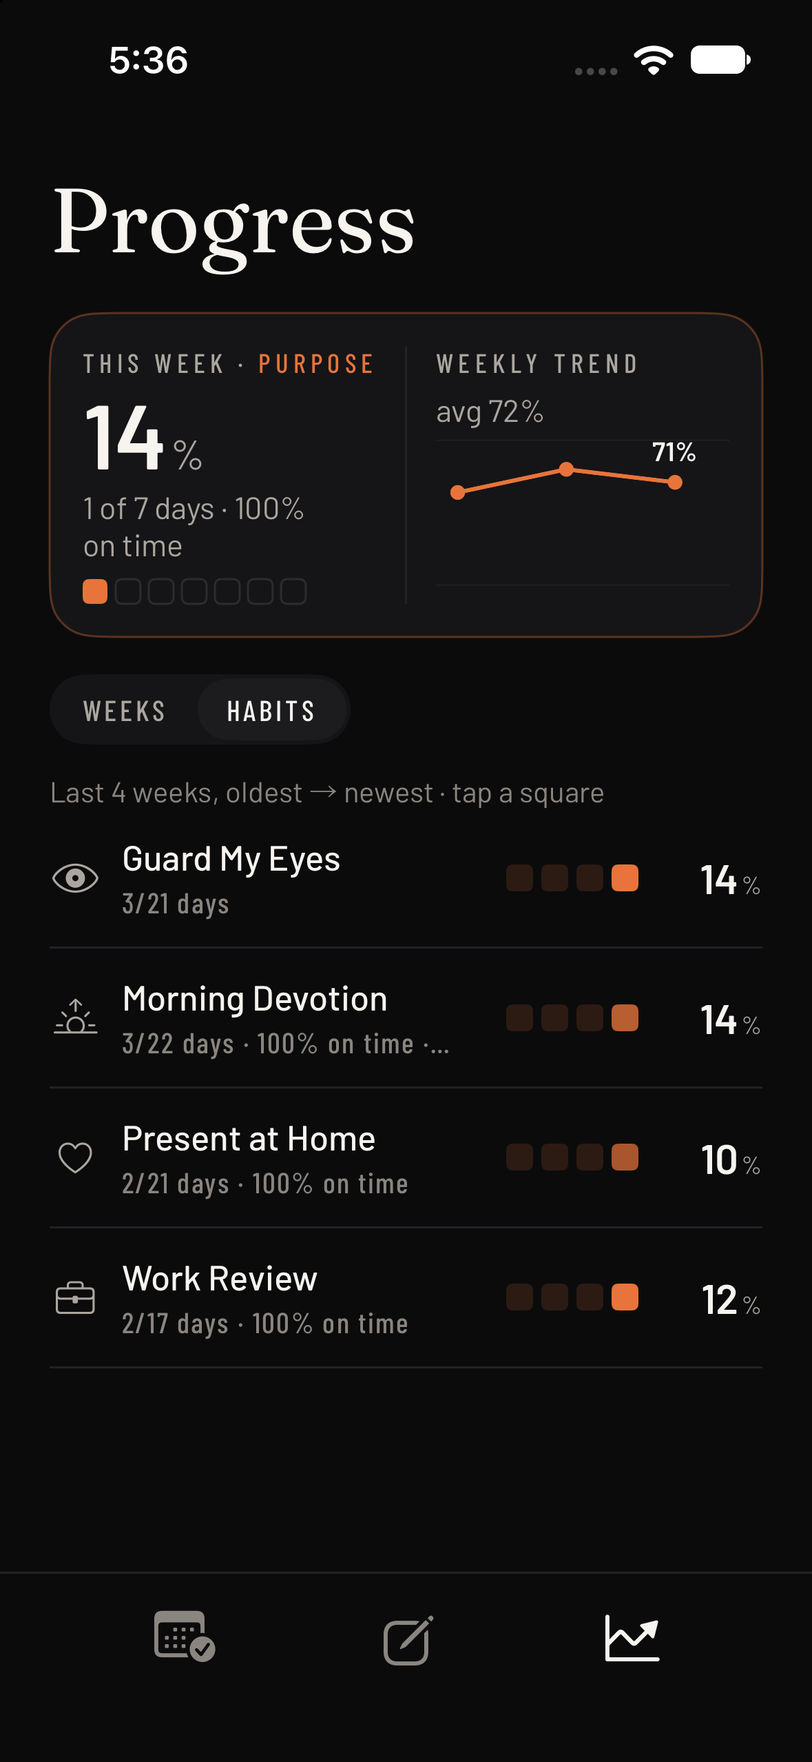
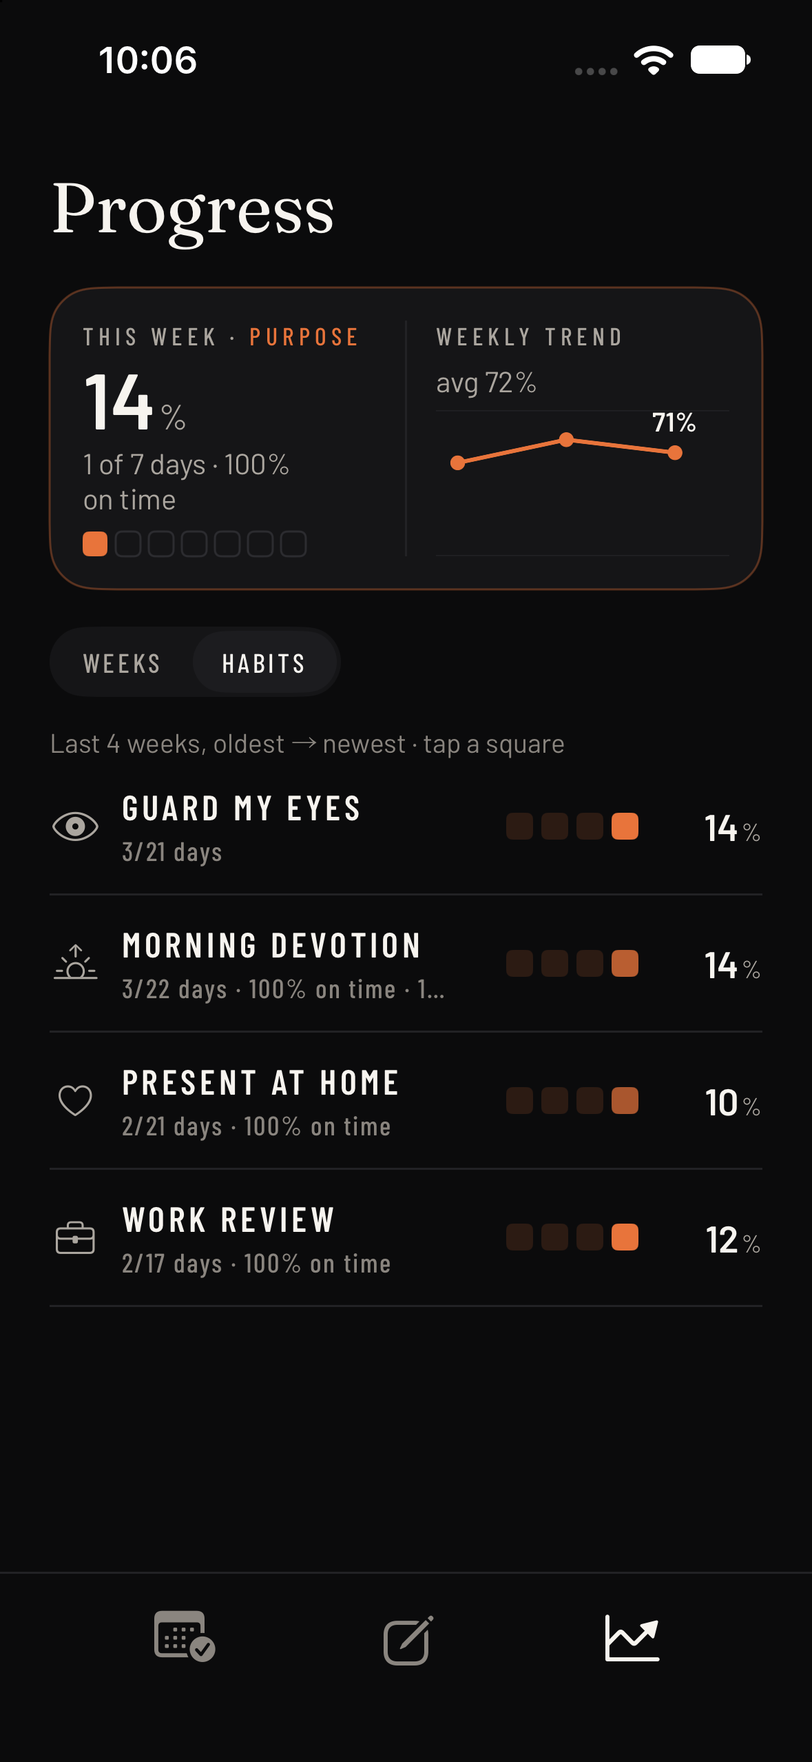
iOS: condensed caps for habit names, rows and buttons; remove the flat style trial switch (original shapes stay)

diff --git a/ios/WeeklyDirection/SettingsView.swift b/ios/WeeklyDirection/SettingsView.swift
@@ -4,7 +4,6 @@ import SwiftUI
 /// notifications on this phone, export.
 struct SettingsView: View {
     @EnvironmentObject var store: Store
-    @AppStorage(Theme.styleKey) private var style = 0
     @EnvironmentObject var router: Router
     @EnvironmentObject var notifier: Notifier
     @Environment(\.dismiss) private var dismiss
@@ -23,11 +22,11 @@ struct SettingsView: View {
             HStack {
                 Button { commit(); dismiss() } label: {
                     HStack(spacing: 10) { Image(systemName: "chevron.left").font(.system(size: 15, weight: .medium)); Text("This week") }
-                        .font(Theme.ui(16)).foregroundStyle(Theme.mu)
+                        .caps(16).foregroundStyle(Theme.mu)
                 }
                 .buttonStyle(.plain)
                 Spacer()
-                if focus != nil { Button("Done") { focus = nil }.font(Theme.ui(16, .semibold)).foregroundStyle(Theme.ac) }
+                if focus != nil { Button("Done") { focus = nil }.caps(16).foregroundStyle(Theme.ac) }
             }
             .padding(.horizontal, 24).frame(height: 52)
             ScrollView {
@@ -61,7 +60,7 @@ struct SettingsView: View {
                 Text(store.isMock ? "Preview data" : "Synced to your account").font(Theme.ui(14)).foregroundStyle(Theme.mu)
             } }
             divider
-            Button { confirmSignOut = true } label: { row { Text("Sign out on this device").font(Theme.ui(16)).foregroundStyle(Theme.tx) } }.buttonStyle(.plain)
+            Button { confirmSignOut = true } label: { row { Text("Sign out on this device").caps(16).foregroundStyle(Theme.tx) } }.buttonStyle(.plain)
         }
         if let aw = store.activeWeek {
             label("This week")
@@ -79,7 +78,7 @@ struct SettingsView: View {
                 ForEach([("dark", "Dark"), ("light", "Light"), ("auto", "Auto")], id: \.0) { t in
                     let on = store.settings.theme == t.0
                     Button(t.1) { Haptic.tick(); store.setSettings(["theme": t.0]) }
-                        .font(Theme.ui(16)).foregroundStyle(on ? Color(hex: 0x0B0B0C) : Theme.tx)
+                        .caps(16).foregroundStyle(on ? Color(hex: 0x0B0B0C) : Theme.tx)
                         .frame(maxWidth: .infinity).frame(height: 40)
                         .background(on ? Color(hex: 0xF7F4EF) : Color.clear, in: RoundedRectangle(cornerRadius: Theme.r(11), style: .continuous))
                         .overlay(RoundedRectangle(cornerRadius: Theme.r(11), style: .continuous).stroke(on ? Color.clear : Theme.line, lineWidth: 1))
@@ -87,25 +86,6 @@ struct SettingsView: View {
             }
             .buttonStyle(.plain).padding(16)
         }
-        group {
-            // a look being tried on the phone: saved on this phone only, never in the account
-            VStack(alignment: .leading, spacing: 10) {
-                Text("Style (trying it out)").font(Theme.ui(14)).foregroundStyle(Theme.mu)
-                HStack(spacing: 6) {
-                    ForEach([(0, "Current"), (1, "Flat"), (2, "Flat + caps")], id: \.0) { t in
-                        let on = style == t.0
-                        Button(t.1) { Haptic.tick(); style = t.0 }
-                            .font(Theme.ui(16)).foregroundStyle(on ? Color(hex: 0x0B0B0C) : Theme.tx)
-                            .frame(maxWidth: .infinity).frame(height: 40)
-                            .background(on ? Color(hex: 0xF7F4EF) : Color.clear, in: RoundedRectangle(cornerRadius: Theme.r(11), style: .continuous))
-                            .overlay(RoundedRectangle(cornerRadius: Theme.r(11), style: .continuous).stroke(on ? Color.clear : Theme.line, lineWidth: 1))
-                    }
-                }
-                .buttonStyle(.plain)
-            }
-            .padding(16)
-        }
-        .padding(.top, 8)
         group {
             toggle("Sounds", "Soft tones when you start a timer, finish a habit or keep the day. Silent when the phone is on silent.",
                    Binding(get: { store.settings.sounds }, set: { store.setSettings(["sounds": $0]) }))
@@ -145,7 +125,7 @@ struct SettingsView: View {
                 titled("Export my data", "A copy of every week, habit, reflection, prayer and setting, as one file you can keep.")
                 Spacer()
                 Button("Export") { exportURL = export() }
-                    .font(Theme.ui(16, .semibold)).foregroundStyle(Theme.tx).padding(.horizontal, 16).frame(height: 40)
+                    .caps(16).foregroundStyle(Theme.tx).padding(.horizontal, 16).frame(height: 40)
                     .overlay(RoundedRectangle(cornerRadius: Theme.r(12), style: .continuous).stroke(Theme.line, lineWidth: 1)).buttonStyle(.plain)
             }
             .padding(16)
@@ -158,7 +138,7 @@ struct SettingsView: View {
     private func row<V: View>(@ViewBuilder _ c: () -> V) -> some View { c().fullWidth().padding(16).contentShape(Rectangle()) }
     private func titled(_ t: String, _ sub: String) -> some View {
         VStack(alignment: .leading, spacing: 3) {
-            Text(t).font(Theme.ui(16)).foregroundStyle(Theme.tx)
+            Text(t).caps(16).foregroundStyle(Theme.tx)
             Text(sub).font(Theme.ui(14)).foregroundStyle(Theme.mu).multilineTextAlignment(.leading)
         }
     }

diff --git a/ios/WeeklyDirection/PlanView.swift b/ios/WeeklyDirection/PlanView.swift
@@ -34,7 +34,7 @@ struct PlanView: View {
             HStack {
                 Button { leave() } label: {
                     HStack(spacing: 10) { Image(systemName: "chevron.left").font(.system(size: 15, weight: .medium)); Text("Later") }
-                        .font(Theme.ui(16)).foregroundStyle(Theme.mu)
+                        .caps(16).foregroundStyle(Theme.mu)
                 }
                 .buttonStyle(.plain)
                 Spacer()
@@ -152,7 +152,7 @@ struct PlanView: View {
                 if let c = Commitment(raw) {
                     HStack(spacing: 12) {
                         Ico(name: c.icon, size: 17).foregroundStyle(Theme.mu)
-                        Text(c.name).font(Theme.ui(16)).foregroundStyle(Theme.tx).lineLimit(1).layoutPriority(1)
+                        Text(c.name).caps(16).foregroundStyle(Theme.tx).lineLimit(1).layoutPriority(1)
                         Spacer(minLength: 6)
                         Text(c.timeLabel()).font(Theme.label(13)).tracking(0.8).foregroundStyle(Theme.mu2).lineLimit(1)
                         Button { tray.remove(at: i); saveDraft() } label: {
@@ -372,7 +372,7 @@ struct ChipSheet: View {
                 timeRow("Start by", $by).padding(.top, 20)
                 if days != "wd" { timeRow("Weekends", $byWe).padding(.top, 10) }
                 HStack {
-                    Text("Minutes (timed habit)").font(Theme.ui(16)).foregroundStyle(Theme.tx)
+                    Text("Minutes (timed habit)").caps(16).foregroundStyle(Theme.tx)
                     Spacer()
                     TextField("0", text: $minutes).keyboardType(.numberPad).multilineTextAlignment(.trailing).font(Theme.ui(16)).foregroundStyle(Theme.tx).frame(width: 70)
                 }
@@ -419,7 +419,7 @@ struct ChipSheet: View {
 
     private func timeRow(_ label: String, _ t: Binding<Date?>) -> some View {
         HStack {
-            Text(label).font(Theme.ui(16)).foregroundStyle(Theme.tx)
+            Text(label).caps(16).foregroundStyle(Theme.tx)
             Spacer()
             if let v = t.wrappedValue {
                 DatePicker("", selection: Binding(get: { v }, set: { t.wrappedValue = $0 }), displayedComponents: .hourAndMinute).labelsHidden().tint(Theme.ac)
@@ -440,7 +440,7 @@ struct ChipSheet: View {
                 Button("Remove from library") { confirmRemove = true }.font(Theme.ui(15)).foregroundStyle(Theme.danger)
             case .new:
                 primary("Save to library and add") { save("lib") }
-                Button("This week only") { save("week") }.font(Theme.ui(16)).foregroundStyle(Theme.tx).frame(maxWidth: .infinity).frame(height: 48)
+                Button("This week only") { save("week") }.caps(16).foregroundStyle(Theme.tx).frame(maxWidth: .infinity).frame(height: 48)
                     .overlay(RoundedRectangle(cornerRadius: Theme.r(14), style: .continuous).stroke(Theme.line, lineWidth: 1))
             }
         }
@@ -448,7 +448,7 @@ struct ChipSheet: View {
     }
     private func primary(_ t: String, _ action: @escaping () -> Void) -> some View {
         Button(action: action) {
-            Text(t).font(Theme.ui(16, .semibold)).foregroundStyle(Color(hex: 0x0B0B0C)).frame(maxWidth: .infinity).frame(height: 50)
+            Text(t).caps(16).foregroundStyle(Color(hex: 0x0B0B0C)).frame(maxWidth: .infinity).frame(height: 50)
                 .background(Color(hex: 0xF7F4EF), in: RoundedRectangle(cornerRadius: Theme.r(14), style: .continuous))
         }
     }
@@ -500,7 +500,7 @@ struct QuestionPicker: View {
                 HStack {
                     Text("Pick two questions · \(picked.count)/2").font(Theme.serif(20)).foregroundStyle(Theme.tx)
                     Spacer()
-                    Button("Done") { dismiss() }.font(Theme.ui(16, .semibold)).foregroundStyle(Theme.ac)
+                    Button("Done") { dismiss() }.caps(16).foregroundStyle(Theme.ac)
                 }
                 Eyebrow(text: "Anchor · every week", color: Theme.mu, size: 12).padding(.top, 18)
                 Text(a).font(Theme.serif(17)).foregroundStyle(Theme.tx).padding(.top, 6)

diff --git a/ios/WeeklyDirection/ReflectView.swift b/ios/WeeklyDirection/ReflectView.swift
@@ -186,7 +186,7 @@ struct WeekPage: View {
                         Button(selecting ? "Cancel" : "Select") { Haptic.tick(); selecting.toggle(); picked = [] }
                     }
                 }
-                .font(Theme.ui(16)).foregroundStyle(Theme.ac)
+                .caps(16).foregroundStyle(Theme.ac)
                 .padding(.horizontal, 22).frame(height: 52)
                 ScrollView {
                     if let w = store.week(weekId) {
@@ -199,7 +199,7 @@ struct WeekPage: View {
             if selecting {
                 Button { confirmDelete = true } label: {
                     Text(picked.isEmpty ? "Delete" : "Delete \(picked.count) \(picked.count == 1 ? "entry" : "entries")")
-                        .font(Theme.ui(16, .semibold)).foregroundStyle(.white)
+                        .caps(16).foregroundStyle(.white)
                         .frame(maxWidth: .infinity).frame(height: 54)
                         .background(Theme.danger.opacity(picked.isEmpty ? 0.4 : 1), in: RoundedRectangle(cornerRadius: Theme.r(16), style: .continuous))
                 }
@@ -348,14 +348,14 @@ struct EntryMenu: ViewModifier {
                                 .fullWidth().padding(.horizontal, 18).padding(.vertical, 16)
                                 Rectangle().fill(Theme.rule).frame(height: 1)
                                 Button("Edit") { router.entryMenu = nil; onEdit(i) }
-                                    .font(Theme.ui(17)).foregroundStyle(Theme.ac).frame(maxWidth: .infinity).frame(height: 58)
+                                    .caps(16).foregroundStyle(Theme.ac).frame(maxWidth: .infinity).frame(height: 58)
                                 Rectangle().fill(Theme.rule).frame(height: 1)
                                 Button("Delete") { target = i; confirm = true }
-                                    .font(Theme.ui(17)).foregroundStyle(Theme.danger).frame(maxWidth: .infinity).frame(height: 58)
+                                    .caps(16).foregroundStyle(Theme.danger).frame(maxWidth: .infinity).frame(height: 58)
                             }
                             .background(Theme.card2, in: RoundedRectangle(cornerRadius: Theme.r(18), style: .continuous))
                             Button("Cancel") { router.entryMenu = nil }
-                                .font(Theme.ui(17, .semibold)).foregroundStyle(Theme.tx).frame(maxWidth: .infinity).frame(height: 58)
+                                .caps(16).foregroundStyle(Theme.tx).frame(maxWidth: .infinity).frame(height: 58)
                                 .background(Theme.card2, in: RoundedRectangle(cornerRadius: Theme.r(18), style: .continuous))
                         }
                         .buttonStyle(.plain)
@@ -395,9 +395,9 @@ struct EntryEditor: View {
                 Button("Cancel") {
                     if entry == nil, !text.trimmingCharacters(in: .whitespacesAndNewlines).isEmpty { confirmDiscard = true } else { dismiss() }
                 }
-                .font(Theme.ui(16)).foregroundStyle(Theme.mu)
+                .caps(16).foregroundStyle(Theme.mu)
                 Spacer()
-                Button(entry == nil ? "Add" : "Save") { save(); dismiss() }.font(Theme.ui(16, .semibold)).foregroundStyle(Theme.ac)
+                Button(entry == nil ? "Add" : "Save") { save(); dismiss() }.caps(16).foregroundStyle(Theme.ac)
             }
             .frame(height: 52)
             Eyebrow(text: entry == nil ? "New entry · \(Fmt.stamp(opened))" : "Edit entry" + (blk?.d.map { " · \($0), \(blk?.t ?? "")" } ?? ""),

diff --git a/ios/WeeklyDirection/Theme.swift b/ios/WeeklyDirection/Theme.swift
@@ -7,11 +7,9 @@ enum Theme {
     /// "Not now" palette preview (-MockPalette focus, sample-data mode only): a design finding, not an approved theme.
     /// bg, tx and ac are sampled from the /focus page screenshot; the other tones are derived from them.
     private static let focus = Mock.enabled && UserDefaults.standard.string(forKey: "MockPalette") == "focus"
-    /// Flat style trial (Settings > Appearance > Style, or -MockStyle 1 / 2): a design finding Eddie is trying on the
-    /// phone, not yet the approved look. 0 = current; 1 = square, outlined shapes; 2 = the same plus heavy condensed
-    /// caps for titles and habit names. Kept on this phone only (UserDefaults), never in Firestore.
-    static let styleKey = "MockStyle"
-    static var style: Int { UserDefaults.standard.integer(forKey: styleKey) }
+    /// Flat style preview (-MockStyle 1 or 2, sample-data mode only): a design finding Eddie tried and turned down
+    /// (Nov 9 2026: "keep original"). 1 = square, outlined shapes; 2 = the same plus condensed caps titles.
+    static let style: Int = Mock.enabled ? UserDefaults.standard.integer(forKey: "MockStyle") : 0
     static func r(_ x: CGFloat) -> CGFloat { style > 0 ? 0 : x }
     static var pill: AnyShape { style > 0 ? AnyShape(Rectangle()) : AnyShape(Capsule()) }
     static var dot: AnyShape { style > 0 ? AnyShape(Rectangle()) : AnyShape(Circle()) }
@@ -144,11 +142,13 @@ extension View {
         if Theme.style == 2 { font(.custom("BarlowCondensed-SemiBold", size: size * 1.12)).textCase(.uppercase).tracking(size * 0.03) }
         else { font(Theme.serif(size)) }
     }
-    /// habit name: the web's Barlow Regular 16.5, or condensed caps in flat style 2 (preview only)
-    @ViewBuilder func rowTitle() -> some View {
-        if Theme.style == 2 { font(.custom("BarlowCondensed-SemiBold", size: 17)).textCase(.uppercase).tracking(2.2) }
-        else { font(Theme.ui(16.5)) }
+    /// Names, rows and buttons: heavy condensed caps (Eddie, Nov 9 2026). Page titles and journal text keep the serif;
+    /// sentences and descriptions keep Barlow.
+    func caps(_ size: CGFloat = 16) -> some View {
+        font(.custom("BarlowCondensed-SemiBold", size: size)).textCase(.uppercase).tracking(size * 0.11)
     }
+    /// habit name
+    func rowTitle() -> some View { caps(17) }
     /// full-width, leading-aligned content: nothing in the app is centered in a narrow column
     func fullWidth() -> some View { frame(maxWidth: .infinity, alignment: .leading) }
 }

diff --git a/ios/WeeklyDirection/HabitSheet.swift b/ios/WeeklyDirection/HabitSheet.swift
@@ -26,7 +26,7 @@ struct HabitSheet: View {
                             Text(metaLine(c)).font(Theme.label(13)).tracking(1.4).foregroundStyle(Theme.mu2)
                         }
                         Spacer()
-                        Button("Done") { router.sheet = nil }.font(Theme.ui(16, .semibold)).foregroundStyle(Theme.ac)
+                        Button("Done") { router.sheet = nil }.caps(16).foregroundStyle(Theme.ac)
                     }
                     Eyebrow(text: "About", color: Theme.mu, size: 12).padding(.top, 22)
                     TextEditor(text: $about)
@@ -94,14 +94,14 @@ struct HabitSheet: View {
                         router.sheet = nil
                         DispatchQueue.main.asyncAfter(deadline: .now() + 0.35) { router.cover = .focus(week: w.id, habit: c.id, day: k) }
                     } label: {
-                        Text("Open timer").font(Theme.ui(16, .medium)).foregroundStyle(Theme.tx)
+                        Text("Open timer").caps(16).foregroundStyle(Theme.tx)
                             .frame(maxWidth: .infinity).frame(height: 48)
                             .overlay(RoundedRectangle(cornerRadius: Theme.r(14), style: .continuous).stroke(Theme.line, lineWidth: 1))
                     }
                     .buttonStyle(.plain)
                 }
                 Button("Mark failed") { confirmFail = true }
-                    .font(Theme.ui(16)).foregroundStyle(Theme.ac).frame(maxWidth: .infinity)
+                    .caps(16).foregroundStyle(Theme.ac).frame(maxWidth: .infinity)
                     .accessibilityIdentifier("markFailed")
             }
             .confirmationDialog("Mark \(c.name) failed for \(k == Rules.ymd(Now.date) ? "today" : "this day")? The day won’t be kept, and this can’t be undone.",

diff --git a/ios/WeeklyDirection/CloseView.swift b/ios/WeeklyDirection/CloseView.swift
@@ -56,7 +56,7 @@ struct CloseSheet: View {
                     .padding(.top, 28)
                     box(text: $reflection, placeholder: "Anything else from the week?", minHeight: 96).padding(.top, 10)
                     Button { close() } label: {
-                        Text("Close the week").font(Theme.ui(16, .semibold)).foregroundStyle(Theme.onAc)
+                        Text("Close the week").caps(16).foregroundStyle(Theme.onAc)
                             .frame(maxWidth: .infinity).frame(height: 54)
                             .background(Theme.ac, in: RoundedRectangle(cornerRadius: Theme.r(16), style: .continuous))
                     }
@@ -167,12 +167,12 @@ struct ClosedMoment: View {
             }
             Spacer()
             Button { router.cover = .plan(replan: nil) } label: {
-                Text("Plan the next week").font(Theme.ui(16, .semibold)).foregroundStyle(Theme.onAc)
+                Text("Plan the next week").caps(16).foregroundStyle(Theme.onAc)
                     .frame(maxWidth: .infinity).frame(height: 54)
                     .background(Theme.ac, in: RoundedRectangle(cornerRadius: Theme.r(16), style: .continuous))
             }
             .buttonStyle(.plain)
-            Button("Later") { router.cover = nil }.font(Theme.ui(16)).foregroundStyle(Theme.mu).padding(.top, 18).padding(.bottom, 24)
+            Button("Later") { router.cover = nil }.caps(16).foregroundStyle(Theme.mu).padding(.top, 18).padding(.bottom, 24)
         }
         .padding(.horizontal, 24)
         .frame(maxWidth: .infinity, maxHeight: .infinity)

diff --git a/ios/WeeklyDirection/PrayerView.swift b/ios/WeeklyDirection/PrayerView.swift
@@ -13,7 +13,7 @@ struct PrayerList: View {
                     Eyebrow(text: "Your prayers", color: Theme.mu, size: 12)
                     Spacer()
                     Button { router.sheet = .prayer(nil, pinned: false) } label: {
-                        HStack(spacing: 8) { Image(systemName: "plus").font(.system(size: 15)); Text("New").font(Theme.ui(16)) }.foregroundStyle(Theme.ac)
+                        HStack(spacing: 8) { Image(systemName: "plus").font(.system(size: 15)); Text("New").caps(16) }.foregroundStyle(Theme.ac)
                     }
                     .buttonStyle(.plain)
                 }
@@ -86,9 +86,9 @@ struct PrayerSheet: View {
                     Eyebrow(text: existing.map { Fmt.date(Date(timeIntervalSince1970: $0.created / 1000)) } ?? "New prayer", color: Theme.mu2, size: 12)
                     Spacer()
                     if !editing {
-                        Button("Edit") { if pinned { confirmRevise = true } else { startEdit() } }.font(Theme.ui(16)).foregroundStyle(Theme.mu).padding(.trailing, 22)
+                        Button("Edit") { if pinned { confirmRevise = true } else { startEdit() } }.caps(16).foregroundStyle(Theme.mu).padding(.trailing, 22)
                     }
-                    Button("Done") { router.sheet = nil }.font(Theme.ui(16, .semibold)).foregroundStyle(Theme.ac)
+                    Button("Done") { router.sheet = nil }.caps(16).foregroundStyle(Theme.ac)
                 }
                 if editing { editor } else { reader }
             }

diff --git a/ios/WeeklyDirection/ThisWeekView.swift b/ios/WeeklyDirection/ThisWeekView.swift
@@ -39,7 +39,7 @@ struct ThisWeekView: View {
                 .font(Theme.ui(15)).foregroundStyle(Theme.mu)
             Button { router.cover = .plan(replan: nil) } label: {
                 Text(resume ? "Resume planning" : first ? "Plan your first week" : "Plan the week")
-                    .font(Theme.ui(16, .semibold)).foregroundStyle(Theme.onAc)
+                    .caps(16).foregroundStyle(Theme.onAc)
                     .padding(.horizontal, 22).frame(height: 50)
                     .background(Theme.ac, in: RoundedRectangle(cornerRadius: Theme.r(14), style: .continuous))
             }
@@ -149,7 +149,7 @@ struct ThisWeekView: View {
         Button { router.sheet = .close(w.id) } label: {
             HStack {
                 VStack(alignment: .leading, spacing: 6) {
-                    Text(due ? "Close the week" : "Weekly review").font(Theme.ui(17, .semibold)).foregroundStyle(Theme.tx)
+                    Text(due ? "Close the week" : "Weekly review").caps(16).foregroundStyle(Theme.tx)
                     Eyebrow(text: "\(Logic.weekStats(w, store.settings).pct)% \(due ? "" : "so far ")· close & plan", color: Theme.mu)
                 }
                 Spacer()

diff --git a/ios/WeeklyDirection/ProgressView.swift b/ios/WeeklyDirection/ProgressView.swift
@@ -101,7 +101,7 @@ struct ProgressScreen: View {
                     HStack(spacing: 10) {
                         Ico(name: r.c.icon, size: 17).foregroundStyle(Theme.mu)
                         VStack(alignment: .leading, spacing: 3) {
-                            Text(r.c.name).font(Theme.ui(16.5)).foregroundStyle(Theme.tx).lineLimit(1)
+                            Text(r.c.name).rowTitle().foregroundStyle(Theme.tx).lineLimit(1)
                             Text("\(r.kept)/\(r.tot) days" + (ot.map { " · \($0)% on time" } ?? "") + (r.gr > 0 ? " · \(r.gr) grace" : "") + (r.rs > 0 ? " · \(r.rs) resched." : ""))
                                 .font(Theme.label(13)).tracking(0.8).foregroundStyle(Theme.mu2).lineLimit(1)
                         }

diff --git a/ios/WeeklyDirection/WeeklyDirectionApp.swift b/ios/WeeklyDirection/WeeklyDirectionApp.swift
@@ -35,8 +35,6 @@ struct RootView: View {
     @EnvironmentObject var store: Store
     @EnvironmentObject var router: Router
     @EnvironmentObject var recorder: Recorder
-    /// the style being tried (Settings > Appearance): changing it redraws every screen
-    @AppStorage(Theme.styleKey) private var style = 0
 
     /// appearance: dark (default), light, or follow the phone
     private var scheme: ColorScheme? {
@@ -55,7 +53,7 @@ struct RootView: View {
             } else if !store.ready {
                 ProgressView().tint(Theme.mu)
             } else {
-                MainTabs().id(style)
+                MainTabs()
             }
         }
         .preferredColorScheme(scheme)

diff --git a/ios/WeeklyDirection/RecordingView.swift b/ios/WeeklyDirection/RecordingView.swift
@@ -50,7 +50,7 @@ struct RecordingView: View {
         VStack(spacing: 0) {
             ZStack {
                 HStack {
-                    Button("Cancel") { recorder.cancel(); router.cover = nil }.font(Theme.ui(16)).foregroundStyle(Theme.mu)
+                    Button("Cancel") { recorder.cancel(); router.cover = nil }.caps(16).foregroundStyle(Theme.mu)
                     Spacer()
                 }
                 Text(Fmt.mmss(floor(recorder.elapsed))).font(Theme.label(15)).tracking(1.5).monospacedDigit().foregroundStyle(Theme.mu)

diff --git a/ios/WeeklyDirection/StatsView.swift b/ios/WeeklyDirection/StatsView.swift
@@ -231,7 +231,7 @@ struct HabitBar: View {
             HStack(spacing: 10) {
                 Ico(name: c.icon, size: 17).foregroundStyle(Theme.tx)
                 VStack(alignment: .leading, spacing: 3) {
-                    Text(c.name).font(Theme.ui(16.5)).foregroundStyle(Theme.tx).lineLimit(1)
+                    Text(c.name).rowTitle().foregroundStyle(Theme.tx).lineLimit(1)
                     Text(sub).font(Theme.label(13)).tracking(0.9).foregroundStyle(Theme.mu2).lineLimit(1)
                 }
                 Spacer(minLength: 6)
